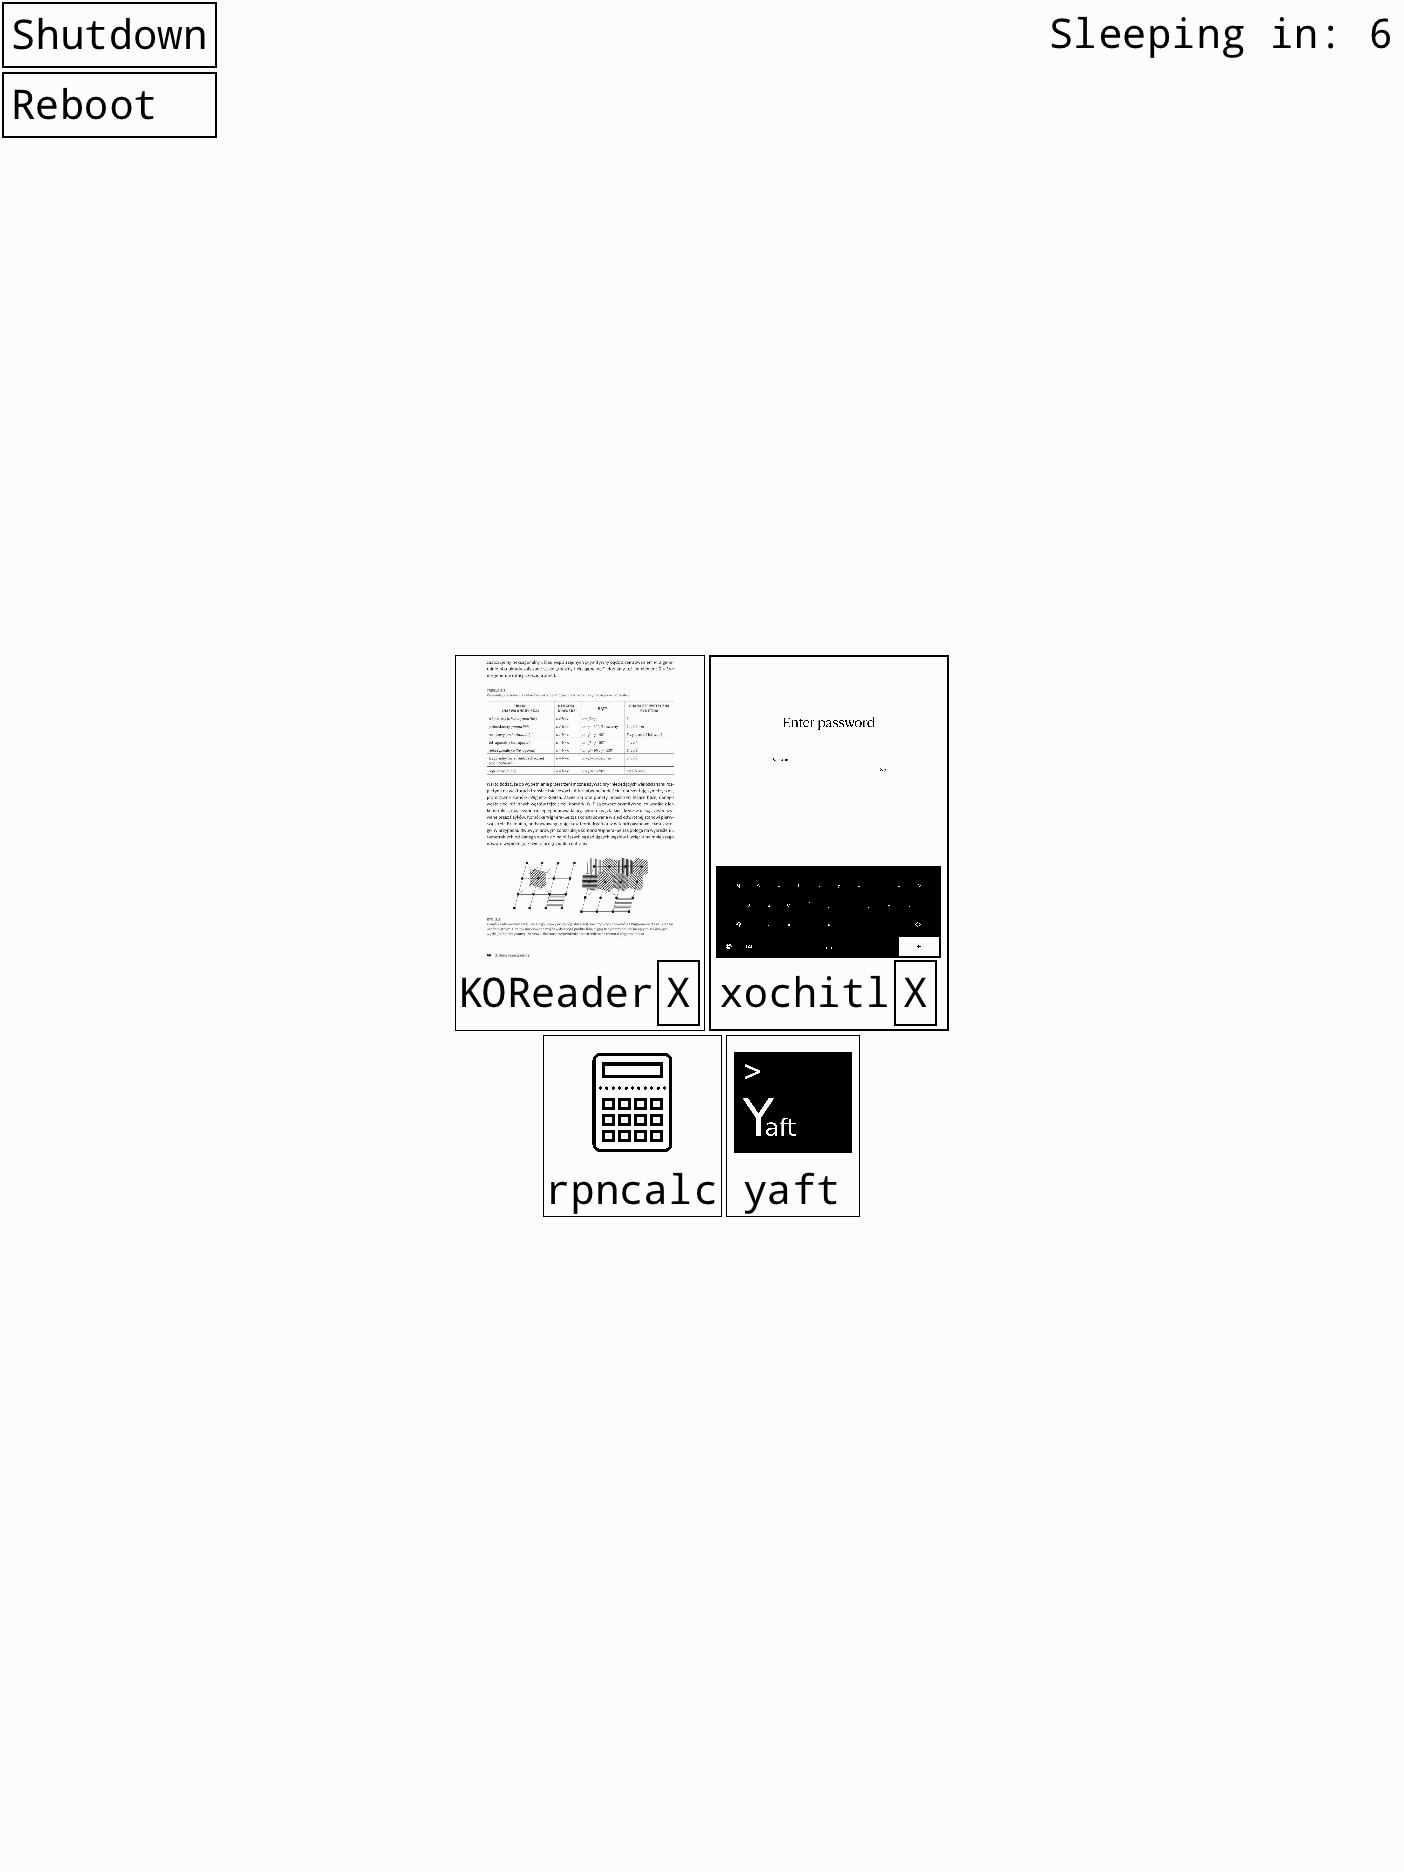
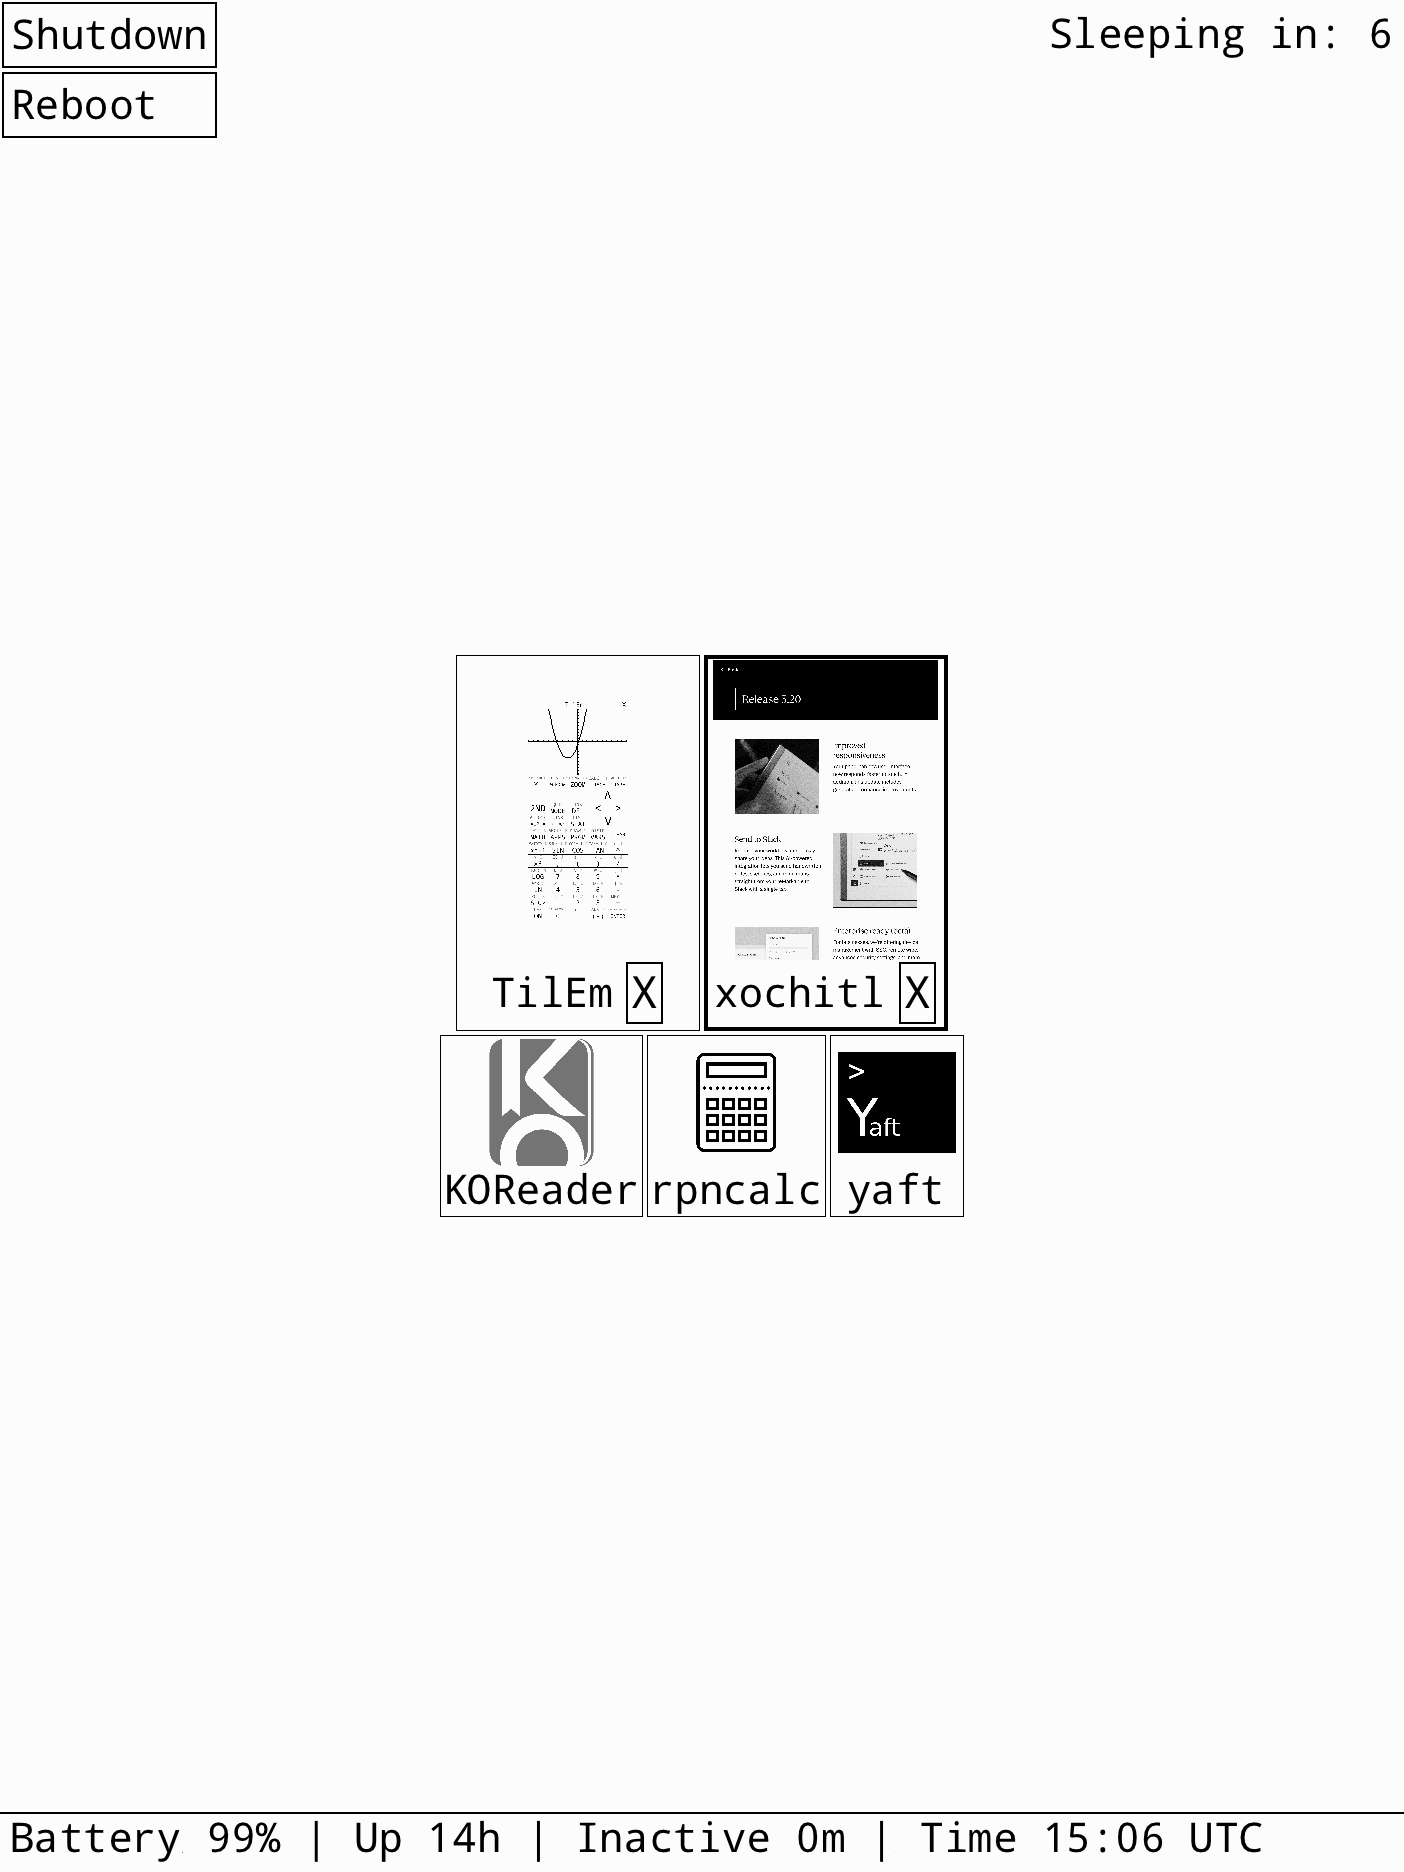
add status bar widget

diff --git a/apps/rocket/StatusBar.cpp b/apps/rocket/StatusBar.cpp
@@ -1,0 +1,113 @@
+#include "StatusBar.h"
+
+#include <unistdpp/file.h>
+#include <sstream>
+#include <fstream>
+
+using namespace rmlib;
+
+StatusBarState
+StatusBarWidget::createState() {
+    return StatusBarState{};
+}
+
+void
+StatusBarState::init(rmlib::AppContext& context, 
+        const rmlib::BuildContext& /*unused*/) {
+    auto device_type_result = unistdpp::readFile(device_type_path);
+    if (device_type_result.has_value()) {
+        device_type = device_type_result.value();
+        device_type.pop_back(); // nl
+        if (device_type == "reMarkable 2.0") {
+            charge_now_path = std::string(rm2_battery_path) + "charge_now";
+            charge_full_path = std::string(rm2_battery_path) + "charge_full";
+        } else if (device_type == "reMarkable Ferrari") {
+            charge_now_path = std::string(rmpp_battery_path) + "charge_now";
+            charge_full_path = std::string(rmpp_battery_path) + "charge_full";
+        } else {
+            charge_now_path = std::string(rm1_battery_path) + "charge_now";
+            charge_full_path = std::string(rm1_battery_path) + "charge_full";
+        }
+
+        init_successful = readStatus();
+    } else {
+        init_successful = false;
+    }
+}
+
+bool
+StatusBarState::readStatus() {
+    inactive_min = getWidget().inactive_min;
+    return readUptime() && readBattery() && readTime();
+}
+
+bool
+StatusBarState::readUptime() {
+    std::ifstream uptime_file(uptime_path);
+    std::string uptime;
+    std::getline(uptime_file, uptime);
+    auto uptime_result = unistdpp::readFile(uptime_path);
+    if (!uptime.empty()) {
+        uptime = uptime.substr(0, uptime.find("."));
+        try {
+            uptime_sec = std::stoi(uptime);
+            return true;
+        } catch (const std::exception& e) {
+            return false;
+        }
+    }
+    return false;
+}
+
+bool
+StatusBarState::readBattery() {
+    auto charge_full_result = unistdpp::readFile(charge_full_path);
+    auto charge_now_result = unistdpp::readFile(charge_now_path);
+    if (charge_full_result.has_value() && charge_now_result.has_value()) {
+        std::string charge_full = charge_full_result.value();
+        charge_full.pop_back(); // nl
+        std::string charge_now = charge_now_result.value();
+        charge_now.pop_back(); // nl
+        try {
+            charge_percent = 100 * std::stoi(charge_now) / std::stoi(charge_full);
+            return true;
+        } catch (const std::exception& e) {
+            charge_percent = 0;
+            return false;
+        }
+    }
+    return false;
+}
+
+bool
+StatusBarState::readTime() {
+    auto t = std::time(nullptr);
+    auto now = std::localtime(&t);
+    char buf[6];
+    std::strftime(buf, sizeof(buf), "%H:%M", now);
+    current_time = std::string(buf);
+    return true;
+}
+
+std::string
+StatusBarState::formatStatus() const {
+    int uptime_m = uptime_sec / 60 % 60;
+    int uptime_h = uptime_sec / 60 / 60 % 24;
+    int uptime_d = uptime_sec / 60 / 60 / 24;
+    std::ostringstream builder;
+    builder << "Battery "
+        << charge_percent << "% | "
+        << "Up ";
+    if (uptime_d > 0) builder << uptime_d << "d";
+    else if (uptime_h > 0) builder << uptime_h << "h";
+    else builder << uptime_m << "m";
+    builder << " | Inactive " << inactive_min << "m"
+        << " | Time " << current_time << " UTC";
+
+    for (int i = 0; i < 64; i++) {
+        // fill so the widget takes full width of the screen
+        // then border will be displayed nicely as a separator
+        builder << " ";
+    }
+    return builder.str();
+}

diff --git a/apps/rocket/StatusBar.h b/apps/rocket/StatusBar.h
@@ -1,0 +1,73 @@
+#pragma once
+
+#include <unistdpp/file.h>
+#include <UI.h>
+
+namespace {
+    // https://github.com/koreader/koreader/blob/master/frontend/device/remarkable/device.lua
+    const char* device_type_path = "/sys/devices/soc0/machine";
+    const char* rm1_battery_path = "/sys/class/power_supply/bq27441-0/";
+    const char* rm2_battery_path = "/sys/class/power_supply/max77818_battery/";
+    const char* rmpp_battery_path = "/sys/class/power_supply/max1726x_battery/";
+
+    const char* uptime_path = "/proc/uptime";
+}
+
+class StatusBarState;
+
+class StatusBarWidget : public rmlib::StatefulWidget<StatusBarWidget> {
+    public:
+        StatusBarWidget(int inactive_min) : inactive_min(inactive_min)  {
+        }
+
+        static StatusBarState createState();
+
+    int inactive_min = 0;
+};
+
+class StatusBarState : public rmlib::StateBase<StatusBarWidget> {
+
+    public:
+        void init(rmlib::AppContext& context, const rmlib::BuildContext&/*unused*/);
+
+
+        auto build(rmlib::AppContext& context,
+             const rmlib::BuildContext& /*unused*/) const {
+            using namespace rmlib;
+
+            if (init_successful && inactive_min != getWidget().inactive_min) {
+                setState([this](auto& self){
+                    self.readStatus();
+                });
+            }
+
+            auto ui = [&]() -> DynamicWidget {
+                if (init_successful) {
+                    return Border(Padding(Text(formatStatus()), 
+                        Insets::sides(0, 10, 10, 0)), Insets::only_top(2));
+                }
+                return Border(Padding(Text("failed to init the status bar"), 
+                        Insets::sides(0, 10, 10, 0)), Insets::sides(2, 0, 0, 2));
+            }();
+
+            return ui;
+        }
+
+    private:
+        bool readStatus();
+        bool readUptime();
+        bool readBattery();
+        bool readTime();
+        std::string formatStatus() const;
+
+        std::string device_type;
+        std::string charge_full_path;
+        std::string charge_now_path;
+        std::string current_time;
+
+        int charge_percent = 0;
+        int uptime_sec = 0;
+        int inactive_min = 0;
+
+        bool init_successful = false;
+};

diff --git a/apps/rocket/Screenshoter.h b/apps/rocket/Screenshoter.h
@@ -76,8 +76,8 @@ class ScreenshoterState : public rmlib::StateBase<ScreenshoterWidget> {
         auto confirmation_dialog(rmlib::AppContext& context) const {
             using namespace rmlib;
             int spacing = 30;
-            std::string notebook = "Notebook: ";
-            std::string page = "Page: ";
+            std::string notebook = "UNKOWN";
+            std::string page = "UNKNOWN";
             system(buildSimulateCommand().c_str());
             auto info = unistdpp::readFile(default_info_path);
             if (info.has_value()) {
@@ -89,20 +89,20 @@ class ScreenshoterState : public rmlib::StateBase<ScreenshoterWidget> {
                     if (line.compare(0, notebookPrefix.size(), notebookPrefix) == 0) {
                         size_t pos = line.find(':');
                         if (pos != std::string::npos && pos + 1 < line.size()) {
-                            notebook += line.substr(pos + 1);
+                            notebook = line.substr(pos + 1);
                         }
                     } else if (line.compare(0, pagePrefix.size(), pagePrefix) == 0) {
                         size_t pos = line.find(':');
                         if (pos != std::string::npos && pos + 1 < line.size()) {
-                            page += line.substr(pos + 1);
+                            page = line.substr(pos + 1);
                         }
                     }
                 }
             }
             return Center(Cleared(Border(Column(
                 Padding(Row(Text("Confirm the target of this operation")), Insets::all(spacing)),
-                Padding(Row(Text(notebook,  default_text_size, 32)), Insets::all(spacing)),
-                Padding(Row(Text(page, default_text_size, 32)), Insets::all(spacing)),
+                Padding(Row(Text("Notebook: "), Text(notebook,  default_text_size, 24)), Insets::all(spacing)),
+                Padding(Row(Text("Page: "), Text(page, default_text_size, 24)), Insets::all(spacing)),
                 Padding(Row(
                     Padding(Button("Cancel", [this]{
                         setState([](auto& self) { 

diff --git a/apps/rocket/Launcher.h b/apps/rocket/Launcher.h
@@ -8,6 +8,7 @@
 
 #include "Lockscreen.h"
 #include "Screenshoter.h"
+#include "StatusBar.h"
 
 class LauncherState;
 
@@ -123,6 +124,7 @@ public:
     auto head = Corner(header(), 1);
     auto menu = Center(Column(runningApps(), appList()));
     widgets.emplace_back(std::move(controls));
+    widgets.emplace_back(std::move(Corner(StatusBarWidget(default_inactivity_timeout - inactivityCountdown), 3)));
     widgets.emplace_back(std::move(head));
     widgets.emplace_back(std::move(menu));
     if (isManagingPower) {
@@ -204,7 +206,11 @@ public:
              });
           }
         })
-        .onAny([this]() { resetInactivity(); }));
+        .onAny([this]() { 
+          if (isUnlocked && !isViewingScreenshot && visible && inactivityCountdown != default_inactivity_timeout)
+            setState([](auto& self) { self.resetInactivity(); }); 
+          else resetInactivity(); // setting state onAny is a bad idea, do it only if necessary
+        }));
   }
 
 private:

diff --git a/apps/rocket/Launcher.cpp b/apps/rocket/Launcher.cpp
@@ -41,7 +41,11 @@ LauncherState::init(rmlib::AppContext& context,
   inactivityTimer = context.addTimer(
     std::chrono::minutes(1),
     [this, &context] {
-      inactivityCountdown -= 1;
+      if (isUnlocked && !isViewingScreenshot && visible)
+        setState([](auto& self) {
+          self.inactivityCountdown -= 1;
+        });
+      else inactivityCountdown -= 1;
       if (inactivityCountdown == 0) {
         resetInactivity();
         setState([&context](auto& self) {
@@ -214,11 +218,6 @@ LauncherState::hide(rmlib::AppContext* context) {
   } else if (context != nullptr) {
     startTimer(*context, 0);
   }
-}
-
-void
-LauncherState::deviceStatus() const {
-  
 }
 
 App*

diff --git a/libs/rMlib/include/UI/Text.h b/libs/rMlib/include/UI/Text.h
@@ -12,7 +12,13 @@ class TextRenderObject;
 class Text : public Widget<TextRenderObject> {
 public:
   Text(std::string text, int fontSize = default_text_size, int maxLength = 1024)
-    : text(std::move(text.substr(0, maxLength))), fontSize(fontSize) {}
+    : fontSize(fontSize) {
+      if (text.size() > maxLength && maxLength > 2) {
+        this->text = text.substr(0, maxLength / 2) + "..." + text.substr(text.size()-maxLength/2);
+      } else {
+        this->text = std::move(text);
+      }
+  }
 
   std::unique_ptr<RenderObject> createRenderObject() const;
 

diff --git a/libs/rMlib/include/UI/Spin.h b/libs/rMlib/include/UI/Spin.h
@@ -30,7 +30,7 @@ namespace rmlib {
                             setState([](auto& self) { self.changeValue(-self.getWidget().step); });
                         })
                     ), Insets::all(spacing)), 
-                    Text(getWidget().transform(value), default_text_size, 32), 
+                    Text(getWidget().transform(value), default_text_size, 24), 
                     Padding(Column(
                         Button("=>>", [this]{
                             setState([](auto& self) { self.changeValue(self.getWidget().jump); });

diff --git a/Readme.md b/Readme.md
@@ -18,12 +18,13 @@ Changes made in this fork:
 - Standard suspended.png is displayed on suspend
 - Poweroff & reboot buttons in the launcher menu (with confirmation dialog)
 - Long press the power button in the launcher to switch focus to the next app
+- Status bar with battery charge, current time in the launcher
 - Paste screenshots into xochitl notebooks
     - first, build or download binary release of [karmtka](https://github.com/cyanjnpr/karMtka) and place it in a directory added to the PATH under the name 'karmtka'
     - long press the power button to take a screenshot
     - select area which you intend to copy
-    - press "Copy to Xochitl" button and adjust the operation parameters
-    - screenshot will be converted to lines format and inserted into desired page
+    - press "Copy to Xochitl" button and adjust operation parameters
+    - screenshot will be converted to lines format and inserted into the selected page
 
 <img src="doc/rocket_lockscreen.png" width=500/>
 <img src="doc/rocket_menu.png" width=500/>
